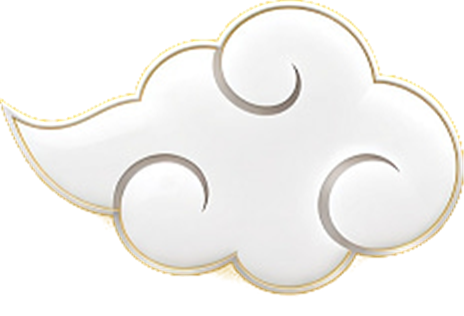
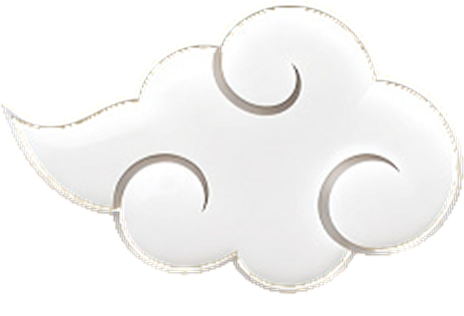
Знак без тени, заставка 3 секунды, метка версии против кеша

Changed region(s): [[0.0, 0.0, 1.0, 0.9399]]

diff --git a/index.html b/index.html
@@ -10,21 +10,21 @@
 <meta name="theme-color" content="#fff8e6" media="(prefers-color-scheme: light)">
 <meta name="theme-color" content="#222222" media="(prefers-color-scheme: dark)">
 <!-- Иконка — фирменный знак, а не буква: облако узнают, «C» на жёлтом квадрате нет -->
-<link rel="icon" href="img/icon.png">
-<link rel="apple-touch-icon" href="img/icon.png">
+<link rel="icon" href="img/icon.png?v=0fee951">
+<link rel="apple-touch-icon" href="img/icon.png?v=0fee951">
 <script src="https://telegram.org/js/telegram-web-app.js"></script>
 <!-- Боевые адреса таблиц и Apps Script. Файл в .gitignore, шаблон — config.example.js.
      При деплое положить рядом с index.html, иначе товары не загрузятся. -->
 <script src="config.js"></script>
 <!-- Порядок значим: каскад рассчитан именно на эту последовательность -->
-<link rel="stylesheet" href="css/tokens.css">
-<link rel="stylesheet" href="css/base.css">
-<link rel="stylesheet" href="css/layout.css">
-<link rel="stylesheet" href="css/catalog.css">
-<link rel="stylesheet" href="css/sheets.css">
-<link rel="stylesheet" href="css/admin.css">
+<link rel="stylesheet" href="css/tokens.css?v=0fee951">
+<link rel="stylesheet" href="css/base.css?v=0fee951">
+<link rel="stylesheet" href="css/layout.css?v=0fee951">
+<link rel="stylesheet" href="css/catalog.css?v=0fee951">
+<link rel="stylesheet" href="css/sheets.css?v=0fee951">
+<link rel="stylesheet" href="css/admin.css?v=0fee951">
 <!-- Заставка последней: она перекрывает всё и ни от чего выше не зависит -->
-<link rel="stylesheet" href="css/splash.css">
+<link rel="stylesheet" href="css/splash.css?v=0fee951">
 </head>
 <body>
 <!-- Заставка открытия: знак проявляется слева направо, из-за облака идёт дым.
@@ -43,7 +43,7 @@
   setTimeout(function(){
     var s=document.getElementById('splash');
     if(s && s.parentNode) s.parentNode.removeChild(s);
-  }, 3400);
+  }, 3250);
 </script>
 <div class="app" id="app">
   <header>

diff --git a/css/splash.css b/css/splash.css
@@ -11,7 +11,7 @@
   background:#fcc101;
   display:flex; flex-direction:column; align-items:center; justify-content:center;
   overflow:hidden;
-  animation:splash-out .55s ease 2.6s forwards;
+  animation:splash-out .55s ease 2.45s forwards;
 }
 /* visibility выключается отдельным кадром в самом конце: включи её в общий
    переход — и заставка исчезла бы мгновенно, ещё до затухания. */
@@ -34,7 +34,7 @@
    проявления, его дыхание не трогает. */
 .splash-logo{
   width:min(58vw,230px); aspect-ratio:232/158;
-  background:url("../img/cloud.png") center/contain no-repeat;
+  background:url("../img/cloud.png?v=0fee951") center/contain no-repeat;
   clip-path:inset(0 100% 0 0);
   animation:
     splash-wipe .95s cubic-bezier(.2,.85,.3,1) .12s forwards,

diff --git a/css/layout.css b/css/layout.css
@@ -26,7 +26,7 @@ header{
    а не быть похожим на него. */
 .logo{
   width:42px; height:42px; flex-shrink:0; border-radius:13px;
-  background:var(--accent) url("../img/logo.png") center/cover no-repeat;
+  background:var(--accent) url("../img/logo.png?v=0fee951") center/cover no-repeat;
   box-shadow:var(--shadow);
 }
 /* Заголовок забирает свободное место, поэтому бонусы и смена темы
